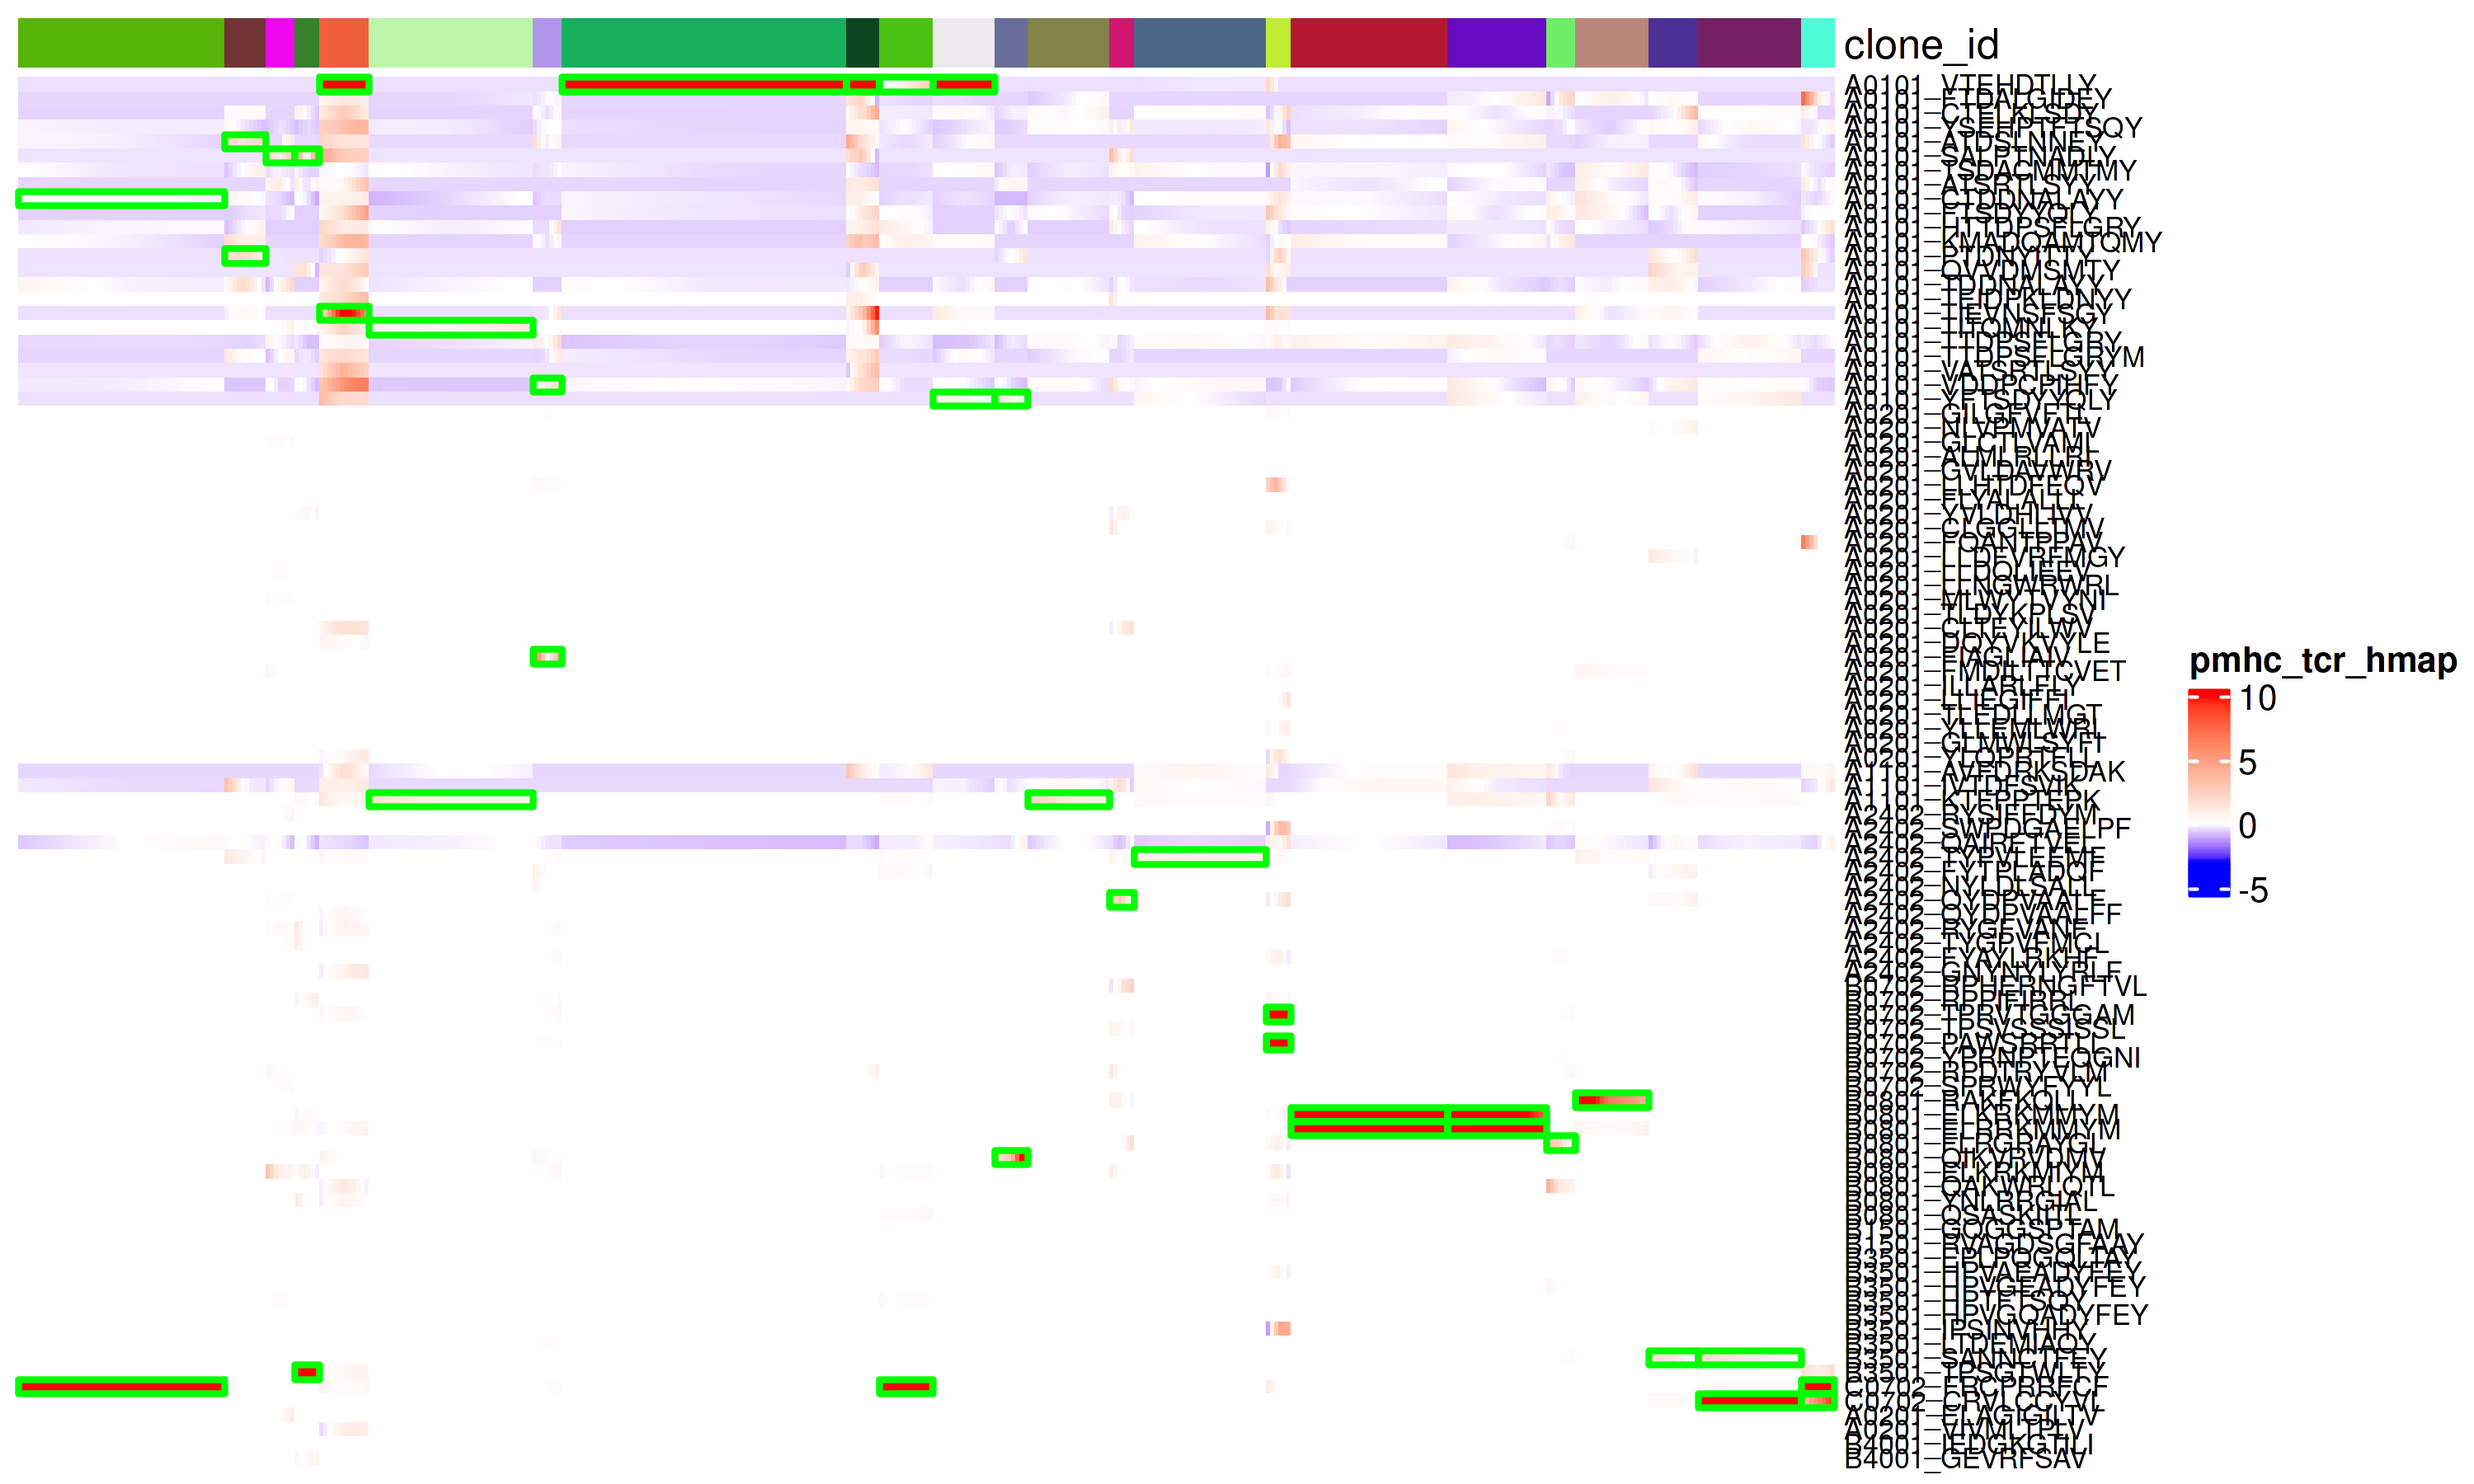
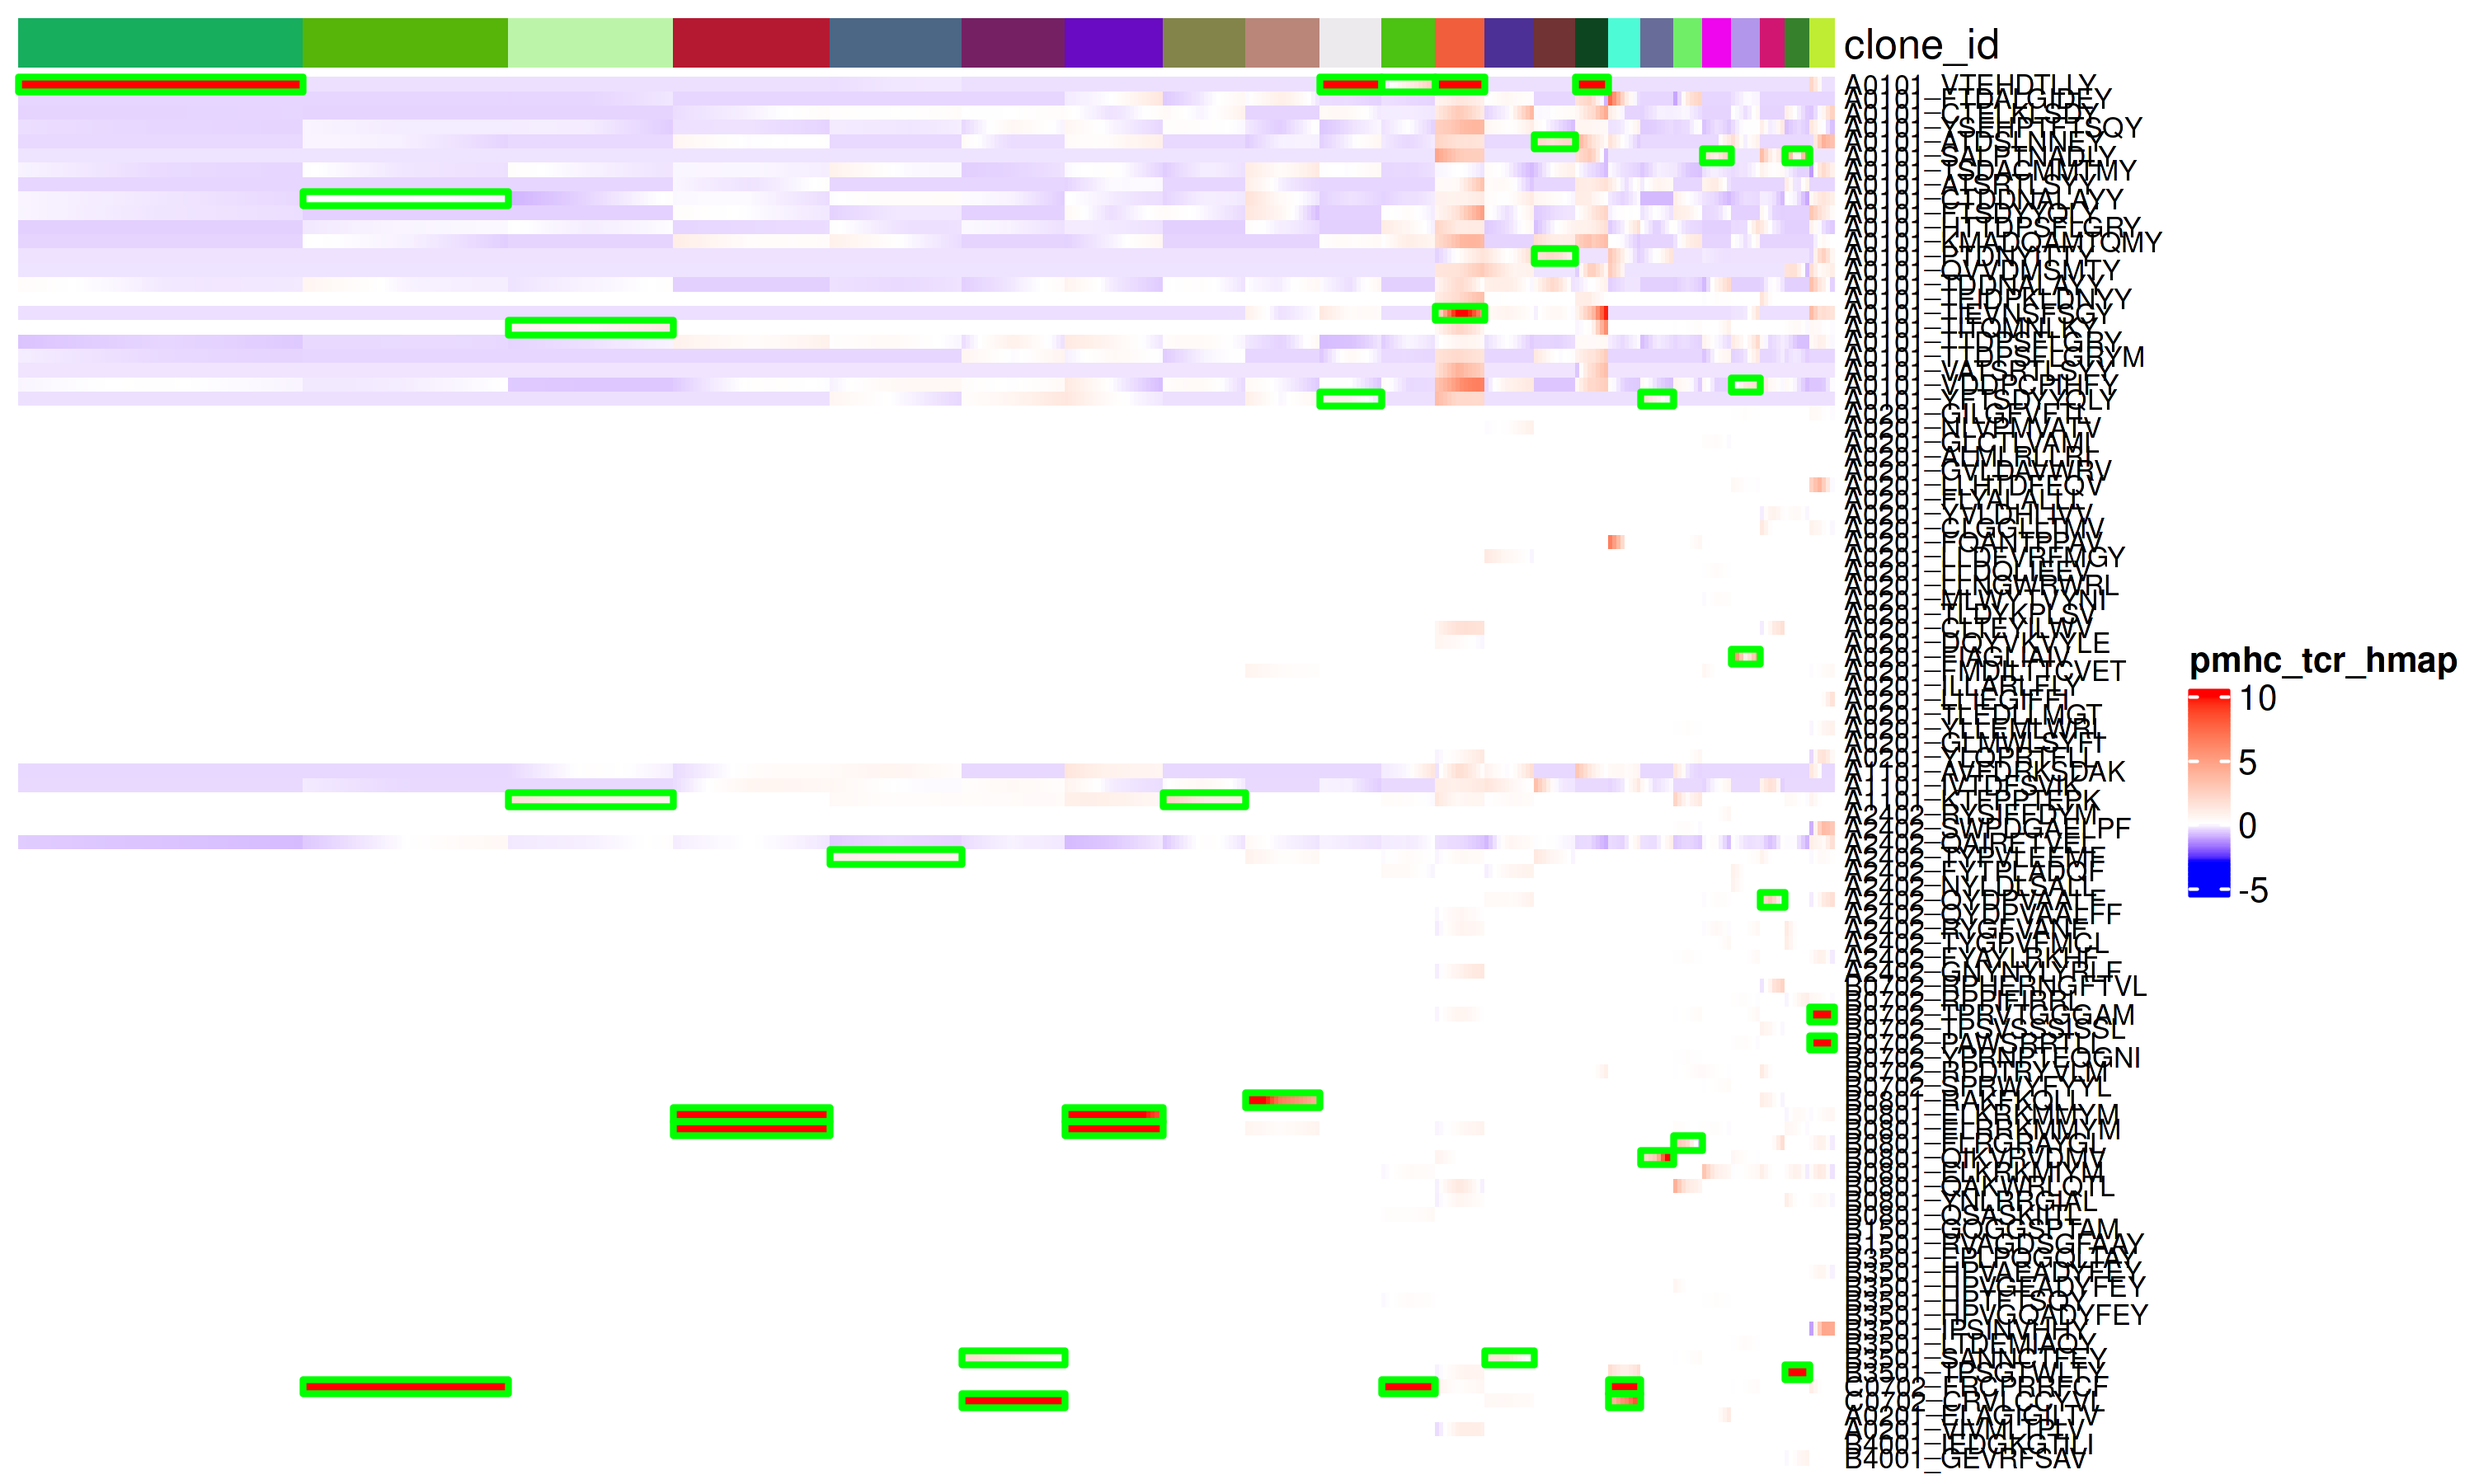
upd eq

diff --git a/vignettes/Simple_case_vignette.md b/vignettes/Simple_case_vignette.md
@@ -223,7 +223,7 @@ potential specificities are missed, try to change alpha in assign_pmhc.
 
 ``` r
 pmhc_heatmap(object = obj_sub, slot = 'scale.data', hm_breaks = c(-3, 0, 10), highlight_pmhc.tcr = T,
-             clones = clones, show_row_names = T, clean_mat = F, verbose= F )
+             clones_order = clones, clones = clones, show_row_names = T, clean_mat = F, verbose= F )
 ```
 
 <img src="Simple_case_vignette_files/figure-gfm/unnamed-chunk-10-1.png" style="display: block; margin: auto;" />
@@ -282,9 +282,9 @@ the use of confidence score, and your within-clone assigment test,
 recorded as pMHC_wclone_pvalue.
 
 ``` r
-filtered_obj <- filter_pmhc(obj_sub, condition = 'pvalues < 0.05') 
+filtered_obj <- filter_pmhc(obj_sub, condition = 'pvalues < 0.1') 
 pmhc_heatmap(object = filtered_obj, slot = 'scale.data', hm_breaks = c(-3, 0, 10), highlight_pmhc.tcr = T,
-             clones = clones, show_row_names = T, clean_mat = F, verbose= F )
+             clones_order = clones, clones = clones, show_row_names = T, clean_mat = F, verbose= F )
 ```
 
 <img src="Simple_case_vignette_files/figure-gfm/unnamed-chunk-13-1.png" style="display: block; margin: auto;" />
@@ -359,16 +359,16 @@ head(pairs, 10)
     ## [1] grid      stats     graphics  grDevices utils     datasets  methods   base     
     ## 
     ## other attached packages:
-    ##  [1] patchwork_1.3.0       RColorBrewer_1.1-3    rlang_1.1.3           circlize_0.4.16       randomcoloR_1.1.0.1   EnvStats_3.0.0       
-    ##  [7] shades_1.4.0          ComplexHeatmap_2.18.0 lubridate_1.9.3       forcats_1.0.0         stringr_1.5.1         dplyr_1.1.3          
-    ## [13] purrr_1.0.2           readr_2.1.5           tidyr_1.3.1           tibble_3.2.1          ggplot2_3.5.1         tidyverse_2.0.0      
-    ## [19] uniformly_0.5.0       ITRAP2_0.1.0          SeuratObject_5.0.1    Seurat_4.4.0         
+    ##  [1] rlang_1.1.3           ITRAP2_0.1.0          patchwork_1.3.0       RColorBrewer_1.1-3    circlize_0.4.16       randomcoloR_1.1.0.1  
+    ##  [7] ComplexHeatmap_2.18.0 lubridate_1.9.3       forcats_1.0.0         stringr_1.5.1         dplyr_1.1.3           purrr_1.0.2          
+    ## [13] readr_2.1.5           tidyr_1.3.1           tibble_3.2.1          ggplot2_3.5.1         tidyverse_2.0.0       uniformly_0.5.0      
+    ## [19] SeuratObject_5.0.1    Seurat_4.4.0          EnvStats_3.0.0        shades_1.4.0         
     ## 
     ## loaded via a namespace (and not attached):
     ##   [1] RcppAnnoy_0.0.22       splines_4.3.1          later_1.3.2            polyclip_1.10-6        lifecycle_1.0.4        doParallel_1.0.17     
     ##   [7] globals_0.16.3         lattice_0.22-6         MASS_7.3-60            magrittr_2.0.3         plotly_4.10.4          rmarkdown_2.29        
-    ##  [13] distillery_1.2-2       yaml_2.3.10            remotes_2.5.0          httpuv_1.6.12          sctransform_0.4.1      spam_2.11-1           
-    ##  [19] sp_2.1-1               sessioninfo_1.2.3      pkgbuild_1.4.6         spatstat.sparse_3.1-0  reticulate_1.34.0      cowplot_1.1.3         
+    ##  [13] remotes_2.5.0          distillery_1.2-2       yaml_2.3.10            httpuv_1.6.12          sctransform_0.4.1      spam_2.11-1           
+    ##  [19] sessioninfo_1.2.3      pkgbuild_1.4.6         sp_2.1-1               spatstat.sparse_3.1-0  reticulate_1.34.0      cowplot_1.1.3         
     ##  [25] pbapply_1.7-2          abind_1.4-8            pkgload_1.4.0          Rtsne_0.17             BiocGenerics_0.48.1    rgl_1.3.17            
     ##  [31] IRanges_2.36.0         S4Vectors_0.40.2       ggrepel_0.9.4          irlba_2.3.5.1          listenv_0.9.1          spatstat.utils_3.1-5  
     ##  [37] goftest_1.2-3          spatstat.random_3.4-1  fitdistrplus_1.2-2     parallelly_1.42.0      leiden_0.4.3.1         codetools_0.2-20      
@@ -377,11 +377,11 @@ head(pairs, 10)
     ##  [55] progressr_0.15.1       ggridges_0.5.6         survival_3.5-8         iterators_1.0.14       foreach_1.5.2          tools_4.3.1           
     ##  [61] ica_1.0-3              Rcpp_1.0.12            glue_1.7.0             gridExtra_2.3          xfun_0.51              extRemes_2.2          
     ##  [67] usethis_3.1.0          withr_3.0.2            fastmap_1.2.0          digest_0.6.34          timechange_0.3.0       R6_2.6.1              
-    ##  [73] mime_0.13              colorspace_2.1-1       scattermore_1.2        Cairo_1.6-2            tensor_1.5             spatstat.data_3.1-8   
+    ##  [73] mime_0.13              colorspace_2.1-1       Cairo_1.6-2            scattermore_1.2        tensor_1.5             spatstat.data_3.1-8   
     ##  [79] utf8_1.2.4             generics_0.1.3         data.table_1.15.0      httr_1.4.7             htmlwidgets_1.6.2      uwot_0.2.3            
     ##  [85] pkgconfig_2.0.3        gtable_0.3.6           lmtest_0.9-40          htmltools_0.5.6.1      profvis_0.4.0          dotCall64_1.2         
     ##  [91] clue_0.3-66            scales_1.3.0           png_0.1-8              spatstat.univar_3.1-4  knitr_1.50             rstudioapi_0.17.1     
-    ##  [97] tzdb_0.5.0             reshape2_1.4.4         rjson_0.2.23           curl_6.2.1             nlme_3.1-164           cachem_1.1.0          
+    ##  [97] tzdb_0.5.0             reshape2_1.4.4         rjson_0.2.23           nlme_3.1-164           curl_6.2.1             cachem_1.1.0          
     ## [103] zoo_1.8-13             GlobalOptions_0.1.2    KernSmooth_2.23-26     parallel_4.3.1         miniUI_0.1.1.1         desc_1.4.3            
     ## [109] pillar_1.10.1          vctrs_0.6.4            RANN_2.6.2             urlchecker_1.0.1       promises_1.2.1         xtable_1.8-4          
     ## [115] cluster_2.1.8.1        evaluate_1.0.3         magick_2.8.5           cli_3.6.2              compiler_4.3.1         crayon_1.5.3          
